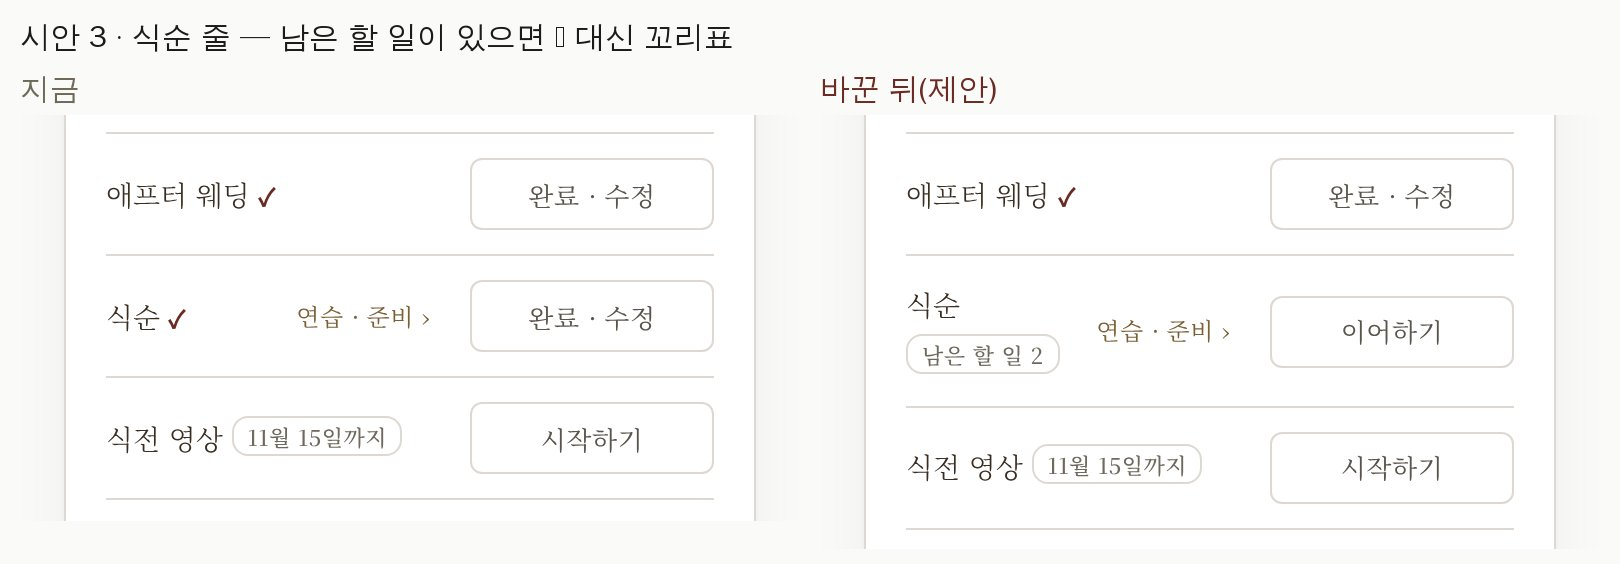
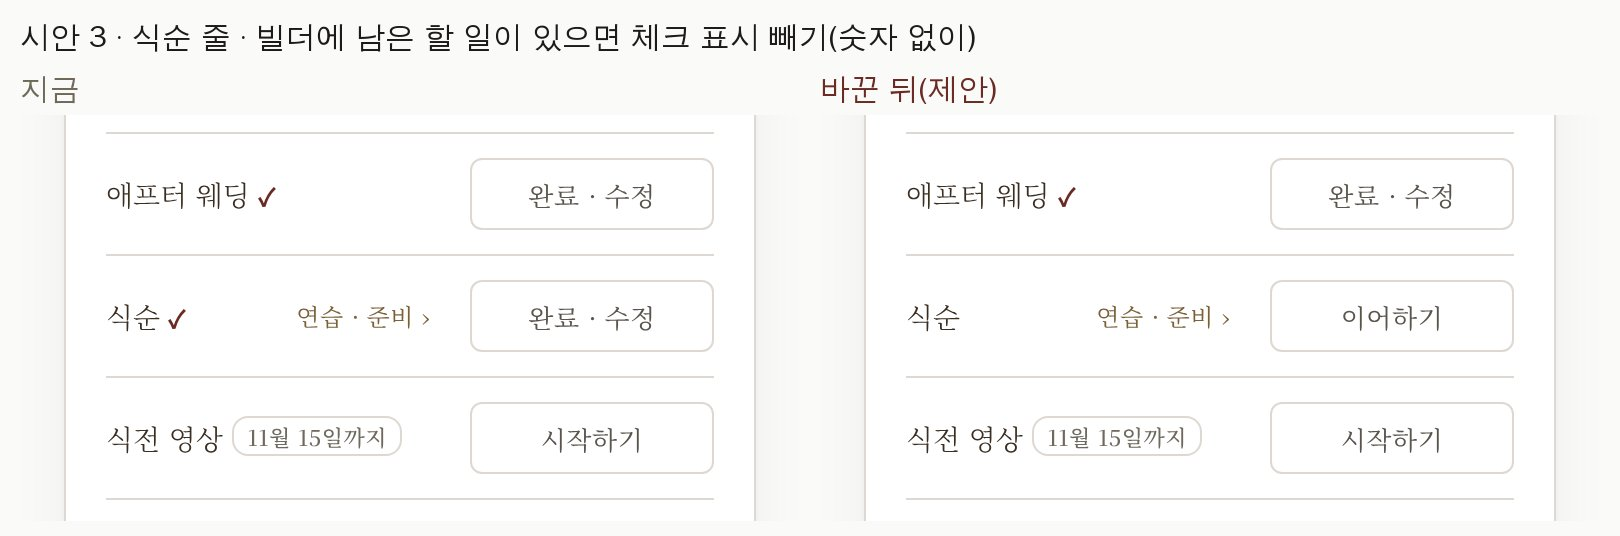
MYPAGE_ALL_1114 · 보고 1 에 결정 기록 칸 [DECISION_FIRST_1114] · 시안 3 숫자 없이 — 검토용 · PR 없음
Claude-Session: https://claude.ai/code/session_01NQtafkznzUV1K24vWyUbNQ

diff --git a/docs/handoff/mypage-all-1114/report-1.md b/docs/handoff/mypage-all-1114/report-1.md
@@ -1,77 +1,82 @@
-# [MYPAGE 보고 1 · 전체 걷기] 고칠 것 표 (2026-11-14 · main 2236d10)
+# [MYPAGE 보고 1 · 전체 걷기] 고칠 것 표 (2026-11-14 · main 2236d10 · [DECISION_FIRST_1114] 반영판)
 
+## 이 표를 만든 방법
 - **걷기**: 진짜 서버 코드(.gs)를 로컬에서 돌려 받은 상태로 실제 mypage.html을 그렸어요. 실제 고객 데이터 · 결제 · 발송은 없어요.
   - 폰 390: 단계 32개 + 단추를 눌러 연 화면 44개
   - PC 1280: 같은 단계
-  - 캡처 목록: [index.md](https://raw.githubusercontent.com/gtrddrt7706-cpu/momentedit-site/claude/mypage-all-1114-shots/docs/handoff/mypage-all-1114/index.md)
-- **점검**:
-  - 묶음 넷(A 로그인~시착 · B 계약~잔금 · C 예식 준비 · D 예식 뒤 · 스냅)을 하위 점검자가 맡고, «기한 · 상태 말» 대조(마이 · 식순 · 알림 · 관리)를 하나 더 맡겼어요.
-  - 그다음 제가 «꼭» 항목을 코드와 화면으로 다시 확인했어요(아래 «확인» 칸).
-- **두 폭 공통**: 가로 넘침 0 · 서버 오류 0 · 콘솔 오류 0 · undefined/NaN 노출 0 · 전각 줄표 0.
-- **처리**:
-  - PR #1651 = 작은 수정(병합 금지)
-  - 시안 1~4 = [전 · 후 그림](https://raw.githubusercontent.com/gtrddrt7706-cpu/momentedit-site/claude/mypage-all-1114-shots/docs/handoff/mypage-all-1114/sian/S1-pair.jpg)(S1~S4)
+  - 캡처: [index.md](https://raw.githubusercontent.com/gtrddrt7706-cpu/momentedit-site/claude/mypage-all-1114-shots/docs/handoff/mypage-all-1114/index.md)
+- **점검자**: 하위 점검자 다섯 + 결정 기록 조사 하나. «꼭»은 제가 코드 · 화면으로 다시 확인했어요.
+- **결정 기록**: 소스 주석 표식, 커밋 글(전체 역사 `git log -S`), 결정 문서에서 찾았어요.
+  - 기록이 있는 항목은 «결정 뒤 달라진 점»으로만 적었어요.
+  - 결정 기록 칸의 줄임말: 구멍 = 예전 결정이 놓친 갈래 · 나중 결정 = 더 늦은 결정이 이김 · 부딪힘 = 결정을 바꾸는 제안.
+- **처리 칸의 줄임말**:
+  - PR = #1651(병합 안 함)
+  - 시안 = [전 · 후 그림 S1~S4](https://raw.githubusercontent.com/gtrddrt7706-cpu/momentedit-site/claude/mypage-all-1114-shots/docs/handoff/mypage-all-1114/sian/S1-pair.jpg)
   - 보고만 = 계약 · 결제 · 환불 문구 또는 GAS
   - 표 = 결정이 필요한 다듬기
 
-## 꼭 (고객이 헷갈리거나 막히거나 틀린 정보를 받음)
+## 꼭
 
-| # | 어디 | 무엇 | 고친 뒤 | 처리 | 확인 |
+| # | 어디 | 무엇 | 결정 기록 | 달라진 점 | 처리 |
 |---|---|---|---|---|---|
-| 1 | 예식 준비 «하객 안내» | 11/06 링크 자동 발급([B2_MA_02]) 뒤 아무것도 안 한 첫날부터 ✓ 가 붙음(헌장 9) | ✓ 없음 · 단추가 상태를 말함 | **PR #1651 F4** | 코드 · 화면 |
-| 2 | «식전 영상» 줄 · 기한 지남 | «기한 지남 · 시작하기»를 누르면 «확정 기한이 지났어요»만 뜸(막힌 단추). 그 화면에 «저장»도 있음 | 식중 줄과 같은 «보기 · 영상 없이 진행» · 저장 숨김 | **PR #1651 F1 · F2** | 코드 · 화면(D-5) |
-| 3 | 웨딩스냅 · 서명 뒤 | «촬영 전에 계약서를 보내드려요»가 그대로 나옴 | 서명 뒤엔 그 줄 빼기 | **PR #1651 F6** | 코드 |
-| 4 | 처음 온 고객(D-70) 메인 | 필수 기한이 한 곳에도 없음. 식순 순서 1/9 · 좌석·음료 1/14 · 식전 영상 1/16은 각 화면 안에만 있음 | NOW 부제 끝에 «가장 가까운 기한 · 식순 순서 1월 9일(토)까지» 한 줄 | **시안 1** | 화면 |
-| 5 | 좌석 화면 기한 줄 | «예식 9일 전까지 확정해 주세요 · D-8» · D-8 은 예식까지 남은 날. 기한(11/13)이 지났고 이미 완료여도 같은 말 | 안 끝냄 «1월 14일(목)까지» / 지남 «확정 기한(11월 13일(금))이 지났어요» / 완료면 숨김 | **시안 2**(문구는 설계 방) | 코드(`_seatLeadNote` 갈래 없음) |
-| 6 | 식순 줄 | 빌더에 남은 할 일이 있어도 저장하면 ✓ · NOW 도 «필수 끝»으로 셈. `mkUndone`은 «마이페이지가 읽는다»고 적혀 있지만 읽는 곳 0 | ✓ 대신 «남은 할 일 N» 꼬리표 · 단추 «이어하기» | **시안 3** | 코드 |
-| 7 | 예식 뒤 «내 완성물» | 서버가 production 을 입금완료 · 제작중에만 줘서(`PRODUCTION_STAGES`) 예식 뒤 목록이 한 번도 안 뜸. 하객 사진 올리기는 30일 열려 있는데 두 분은 링크를 잃음 | 예식 뒤에도 읽기 전용 «내 완성물» | **시안 4**(GAS 재배포 필요) | 코드 |
-| 8 | 예식 영상 대기 | 영상 «준비 중»인데 NOW «모든 순간이 마무리됐어요» · «여정 완료» · 후기가 받지 않은 영상까지 평가하게 함 | NOW 부제 «예식 영상은 준비되는 대로 이곳에 올려드릴게요» | **시안 4** | 점검자 |
-| 9 | 시착 단계 | 시착 단계에 들어서면 상담 카드(일시 · 장소 · 시간 변경)가 통째로 숨음. 상담 전에 동의서가 열리면 상담일을 화면 어디서도 못 봄 | 상담일이 지나기 전까지 상담 카드 유지 | 표(숨김 조건 몇 줄) | 코드 · 화면(14~16에 날짜 0) |
-| 10 | 상담 시간 고른 뒤(11) | «예약금·일정 확인 후 … 확정을 알려드려요» 바로 아래 «예약금 100,000원 · 입금 확인됐어요» | 입금 확인이면 «일정 확인 후 …» | 표(조건 한 낱말) | 화면 |
-| 11 | 개인코드 찾기 · 비밀번호 재설정 | 이메일을 모르거나 메일이 안 오면 다음 길 없음 · 만료 링크는 처음부터 다시 | «이메일이 기억나지 않으면 카카오톡으로» 한 줄 · «재설정 링크 다시 받기» | 표 | 화면 |
-| 12 | 애프터 웨딩 입구 · 좌석 공개 | «예식만으로 조용히 마무리»가 누를 때와 같은 회색 칠 · 좌석 «전체 공개»가 처음부터 체크(BOSS_WAY 1) | 두 카드 흰 바탕 · 안 함은 글자색만 낮춤 / 공개는 안 눌린 채 «안 고르시면 전체 공개» 한 줄 | 표 | 화면 |
-| 13 | 결과물 · 보정 기한 | «보정본은 예식 후 4주 안에 · 고르시는 게 늦어지면 그만큼 늦어져요»가 다 고른 뒤에만 보임(고를 때는 없음) | 원본 도착 때 두 줄 · 보정 중엔 첫 줄만 | 표(사장님 결정 ①의 표시 조건) | 코드 |
-| 14 | 취소된 고객(낸 돈 33만 원 · 환불 0원) | 돈 이야기가 한 줄도 없음(환불 0원이면 환불 카드가 안 뜸) | «받으신 금액은 위약금으로 처리돼 돌려드릴 금액이 없어요 · 근거 조항» | **보고만**(환불 문구) | 화면 |
+| 1 | 하객 안내 ✓ | 아무것도 안 한 첫날부터 ✓ | 있음 · 7/17 «같은 행 폼» 때 ✓ = 링크 있음(그땐 식사·좌석 뒤에만 링크가 생김) | 구멍 · 11/06 [B2_MA_02] 자동 발급으로 ✓의 뜻이 사라짐 | PR F4 |
+| 2 | 식전 영상 · 기한 지남 | «시작하기» → 막힌 화면 · «저장» | 있음 · [PV_CAT_1031] 10/31 «여덟 모양»(대본 설계) | 구멍 · 11/06 [MID_VIDEO_1106]이 식중 줄만 «보기 · 영상 없이 진행»으로 바꿈 | PR F1 · F2(대본 확인) |
+| 3 | 스냅 · 서명 뒤 | «계약서를 보내드려요» 줄 | 있음 · [SNAP_SIGNED_LOCK] 9/26 «서명 뒤 단추 대신 조항 한 줄» | 구멍 · 접힌 «계약서» 줄은 서명 여부를 안 봄 | PR F6 |
+| 4 | 처음 온 고객 메인 | 필수 기한이 메인에 하나도 없음 | 있음 · [TRK_NO_SUB] 7/25 행 아래 기한 걷음 · [TRK_BTN_SAME] · [NOW_CARD_ONCE] 10/09 | 식순 순서 · 식전 영상 기한은 그 뒤에 생겨 어느 결정에도 없음. NOW 한 줄이 NOW_CARD_ONCE 뜻(카드와 같은 말이면 빼기)과 부딪히는지는 판정 필요(카드에는 기한이 없음) | 시안 1 |
+| 5 | 좌석 화면 기한 줄 | «9일 전까지 확정해 주세요 · D-8»(지남 · 완료여도) | 있음 · [MPD_B7] 7/25 D-n = 예식까지 | 구멍 · 옛 줄은 «안 끝냄»에서만 그렸는데 7/25 옮기면서 그 조건이 빠짐 · 지남 갈래는 처음부터 없음 | 시안 2 |
+| 6 | 식순 ✓ | 빌더에 할 일이 남아도 ✓ | 있음 · [PREP_FOLD_OFF] 10/05 사장님 «준비할 것 N가지 · 일단 안 보이게» · mkUndone «stage 2» 미구현 | 부딪힘 주의 · «남은 할 일 N» 꼬리표는 사장님이 숨긴 «N가지»와 닮음 → **숫자 없이 ✓만 빼기**로 고쳐 제안 | 시안 3(수정) |
+| 7 | 예식 뒤 «내 완성물» | 한 번도 안 뜸 · 하객 안내 링크 사라짐 | 있음 · [MPD4_H4] 7/25 «결과물전달 뒤 내 완성물 읽기 전용» | 구멍 · 서버 `PRODUCTION_STAGES`(6/03) 그대로라 이 결정이 한 번도 화면에 산 적 없음 | 시안 4 · GAS |
+| 8 | 예식 영상 대기 | «모든 순간이 마무리됐어요» · 후기가 받지 않은 영상까지 평가 | 있음(부분) · [VIDEO_PENDING_ROW] 9/26 목록만 · «알려드릴게요» 금지(도착 알림 없음) | NOW · «여정 완료» · 후기 문항은 그 결정이 안 봄 · 시안 문구도 «알려드릴게요» 없이 «이곳에 올려드릴게요» | 시안 4 |
+| 9 | 시착 단계 상담 카드 | 상담 일시 · 장소가 사라짐 | 있음 · 6/06 «상담 박스는 방문 전까지만 · 시착 서명 또는 상담완료 뒤 숨김» | 커밋 글은 «시착 서명», 코드는 «시착 단계 진입» · 단계가 상담일 전에 넘어갈 수 있음 | 표 |
+| 10 | 상담 시간 고른 뒤 | «예약금 확인 후» vs «입금 확인됐어요» | 있음(부분) · [CONSULT_DEPOSIT] 9/26 결정 ⑲ 예약금 한 줄 | 한 줄을 더하면서 위 문장은 안 고침 | 표 |
+| 11 | 개인코드 찾기 · 재설정 | 메일이 안 오면 다음 길 없음 | 있음(부분) · [AUTH_SEND_CAP] 10/09 «답은 늘 같게 · 계정 유무 숨김 · 횟수 상한» | 이메일을 모를 때 · 만료 링크 다음 길은 결정 없음(그 규칙 안에서 «카카오톡» 한 줄 · «다시 받기») | 표 |
+| 12 | 애프터 웨딩 입구 · 좌석 공개 | 고르기 전인데 고른 모양 | 있음 · [DN_GATE] 7/20 «안 함 카드 톤 낮춤» · 좌석 «기본 전체 공개» 7/18 | 나중 결정 · [BOSS_WAY_1006] 1(10/06 «기본값을 눌린 모양으로 두지 않는다»)이 이김 | 표 |
+| 13 | 보정 기한 줄 | 고를 때는 안 보이고 다 고른 뒤에만 | 있음 · [RETOUCH_DUE_CONTRACT] 9/26 결정 ① 문구 · 조건은 [MPD_B12] 7/25 | 구멍 · ①이 «늦어지면» 줄을 더했지만 표시 조건은 B12 그대로 | 표 |
+| 14 | 취소 고객(환불 0원) | 돈 이야기가 없음 | 있음(부분) · 6/11 «환불 0원이면 환불 카드 없음» | 화면 돈 문장은 결정 없음 | 보고만 |
 
-## 좋음 (다듬으면 확실히 나아짐)
+## 좋음
 
-| # | 어디 | 무엇 | 고친 뒤 | 처리 |
+| # | 어디 | 무엇 | 결정 기록 | 달라진 점 · 처리 |
 |---|---|---|---|---|
-| 15 | 기한 표기 | 같은 기한을 일곱 꼴로 씀(«1월 9일(토)까지» · «예식 9일 전까지» · «23:59 · 예식 7일 전» · «D-n» · «11월 15일까지» 요일 없음 …) | 모두 «1월 14일(목)까지», 필요하면 «· 예식 9일 전» | 시안 1과 함께 |
-| 16 | 스냅 기획 · 마감 뒤 | NOW «11월 18일(수)까지 고르실 수 있어요» · 카드 «마감이 지났지만…» · 화면 안 «14일 전이 지났어요» | 세 곳 모두 같은 날짜 | 표 |
-| 17 | NOW ↔ 카드 | 같은 말 두 번(10 일정 선택 · 12 제안 · 14 · 16 시착) | NOW 부제 비우고 할 일은 카드 한 곳([NOW_CARD_ONCE] 그대로) | 표(작은 수정 가능) |
-| 18 | 잔금 확인 뒤 | 카드가 조용히 사라지고 «확인됐어요»가 어디에도 없음 · 확인 알림도 꺼짐 | NOW 부제에 며칠 «잔금 1,650,000원 확인됐어요» | 보고만(결제) |
-| 19 | 진사 단추 | 상담 «일정 선택»(이동)은 진사, «이 시간으로 수락»(확정)은 먹빛 · [SEAL_CTA_ONLY]와 거꾸로 | 수락 = 진사 · 일정 선택 = 먹빛 | 표 |
-| 20 | 로그인 · 찾기 · 재설정 오류 | 칠한 상자(진사 5% 바탕 + 테)로 남음 · 상자 때문에 링크가 64px 밀림([ERR_ONE]) | 진사 글 한 줄 | 표(CSS 두 줄) |
-| 21 | 빈 칸으로 «입금했어요» · «고른 컷 제출» · 후기 | 창(mpAlert)이 떠서 한 번 더 눌러 닫아야 함 · 후기는 빠진 필수 하나만 짚음 | 칸 아래 진사 한 줄 + 그 칸으로 초점 | 표 |
-| 22 | 작은 글(읽어야 하는 문장) | 11px · 11.5px 문장(장소 부연 · 계약 요청 칸 이름 · 140분 시간표 숫자(옛 숫자꼴) · 확인서 «고치시면 확정이 풀려요» · 금액 내역) | 12px(문장) · 시간표 `lining-nums` | 표(CSS) |
-| 23 | 누름 칸 | 좌석 ＋ － ✕ 26px · 번호 원 · 체크박스 15px · «상담 도우미에 물어보기» 28px | 보이는 크기 그대로 · 누름 칸 44px | 표(CSS) · «입금액 복사»는 PR F3 |
-| 24 | 관리 화면 이름 | «다이닝» ↔ 애프터 웨딩 · «최종확정 / 좌석배치» ↔ 좌석 · 음료 · 청첩장 상태가 «시작전 · 진행중» 날것 | 고객 화면과 같은 이름 | 표(admin) |
-| 25 | 예식 확인서 확정 | 메일 · 처리 이력은 남지만 관리 고객 카드에 «확정함» 줄이 없음 | 관리 카드에 한 줄 | 표(admin) |
-| 26 | 후기 카드(4,285px) | 선택 10문항 + «기타 의견» 12개 + 카드 안 카드 | «기타 의견»은 고른 문항에만 · 카드 한 겹 | 표(C6 «설문 접기» 보류와 닿음) |
+| 15 | 기한 표기 | 일곱 꼴 | 자리마다 있음 · [SNAP_EDIT_UNTIL] 9/27 «날짜로 말한다» · [PV_STATE_1106 M09] «M월 D일(요일) 23:59 · 예식 7일 전» · [I3_EDIT_WINDOW] | 통일 결정 없음 · M09 꼴 변경은 대본 판정 · 시안 1과 함께 |
+| 16 | 스냅 기획 마감 뒤 | 세 곳 다른 말 | 있음 · [SNAP_EDIT_UNTIL] · [SNAP_WORD_SCENE] 9/27 | 구멍 · NOW만 날짜로 바뀜 · 표 |
+| 17 | NOW ↔ 카드 같은 말 | 10 · 12 · 14 · 16 | 있음 · [NOW_CARD_ONCE] 10/09(다섯 곳 열거) | 구멍 · 열거에서 신청접수 · 변경제안 · 시착 일부 빠짐 · 표(작은 수정 가능) |
+| 18 | 잔금 확인 뒤 | 확인 사실이 어디에도 없음 | 있음(충돌) · 6/12 «완료 결제 카드 제거» · [CPN_NOTIFY] 8/18 알림 off · [NOW_NO_MONEY] 9/21 사장님 | 부딪힘 · 금액을 쓰면 NOW_NO_MONEY 위반 → «잔금 확인됐어요»(금액 없이) 며칠만 · 보고만 |
+| 19 | 진사 단추 | 일정 선택(이동)=진사 · 수락(확정)=먹빛 | 있음 · [SEAL_CTA_ONLY] 9/27 사장님 | 나중 결정 · «일정 선택» 진사는 7/07 스타일 커밋(지시 표기 없음) · 표 |
+| 20 | 로그인 · 찾기 오류 상자 | 칠한 상자 | 있음 · [ERR_ONE] 9/27 · [NOTE_DOT] | 나중 결정 · 로그인은 9/27 한 벌에서 빠짐 · 표(CSS 두 줄) |
+| 21 | 빈 칸 → 창(mpAlert) | 입금했어요 · 고른 컷 제출 | 있음 · [WZ_ERR_INV] 9/27 · [CI_ERR_AT] 10/09 | 나중 결정 · 이 두 폼이 한 벌에 안 들어감 · 후기의 «하나씩 짚기»는 [SV_MISS_AT] 설계라 뺌 · 표 |
+| 22 | 작은 글 | 11px · 11.5px 문장 · 시간표 숫자꼴 | 있음(반대) · «L6-KO-11PX 기각» 9/26(11px는 [TYPO_SCALE7] 의도) | 부딪힘 · **11→12는 뺌.** 남는 것은 11.5px 반px(금지)와 시간표 옛 숫자꼴뿐 · 표 |
+| 23 | 누름 칸 | 좌석 ＋ － ✕ 26px · 체크박스 15px | 있음 · [X_ONE] 9/27 «✕ 44px · 26px 걷음» | 나중 결정 · 그때 좌석 · 체크박스는 안 바뀜 · 표 · «입금액 복사»는 PR F3 |
+| 24 | 관리 화면 이름 | 다이닝 · 최종확정 · 좌석배치 | 없음(관련: [SEAT_DRINK_LABEL] 8/09 고객 화면만 · [STAGE_NAME_PREP] 단계 이름만) | 표(admin) |
+| 25 | 예식 확인서 확정 → 관리 카드 | 줄 없음 | 있음(부분) · [CF_LOG] 8/17 «처리이력 · 메일 둘로 충분» | 관리 카드 표시는 정한 적 없음 · 선례(스냅 기획 «확인됨») · 표(admin) |
+| 26 | 후기 카드 4,285px | 길다 | 있음 · C6 «설문 접기» 7/25 보류 · [SV_NOTE_UI] 9/25 사장님 «문항마다 기타» | 부딪힘 · «기타는 고른 문항에만»은 뺌 · **카드 한 겹(여백 두 겹 걷기)만** · 표 |
 
-## 나중 (구조 · 취향)
+## 나중
 
-| # | 어디 | 무엇 | 고친 뒤 |
-|---|---|---|---|
-| 27 | 계약 요청 폼 | 16칸 · 2,976px · 요청 단추가 맨 끝 · [WZ_BAR] 겉틀 아님 | 일정 / 두 분 정보 / 동의, 세 걸음 |
-| 28 | 진행 머리 «다음 · …» ↔ NEXT 첫 줄 | 같은 단계를 다른 이름으로 | 이름 하나 |
-| 29 | 속도 | 아래 표 | 아래 표 |
+| # | 어디 | 무엇 | 결정 기록 | 처리 |
+|---|---|---|---|---|
+| 27 | 계약 요청 폼 | 16칸 · 2,976px · [WZ_BAR] 겉틀 아님 | 없음([WZ_BAR] 9/26 대상 목록에 없음) | 세 걸음 시안은 나중 |
+| 28 | 진행 머리 «다음 · …» ↔ NEXT | 같은 단계 다른 이름 | 있음(부분) · [STAGE_NAME_PREP] 9/26 결정 ⑤ · [SIGN_NEXT_BUNDLE] | 두 결정이 안 다룬 단계만 · 표 |
+| 29 | 속도 | 아래 표 | 없음(«정적 HTML · 빌드 없음»은 사실 서술 · 금지 결정 아님) | 주석에는 «★…금지» 같은 결정 표식이 있고 merge-guard 가 소스에서 읽으니, 덜어 내려면 배포 때만 · 나중 |
 
 ### 속도 (7)
-
 | 잰 것 | 값 |
 |---|---|
 | mypage.html 원본 · 라이브 brotli | 1,778,306바이트 · 591,935바이트(www 로 307 한 번 거침) |
-| 그중 주석(`/* */` · `<!-- -->`) | 583,372바이트(원본의 33%) · 고객에게 그대로 감 |
+| 그중 주석 | 583,372바이트(원본의 33%) |
 | 폰 흉내(CPU 4배 · 로컬) 첫 그림 · 마이페이지 뜸 · 막힌 시간 | 0.56초 · 1.57초 · 1.2초 |
 | PC 첫 그림 · 마이페이지 뜸 | 0.29초 · 0.51초 |
-| 해석 | 화면 쪽은 견딜 만해요. 실제로 기다리게 하는 것은 GAS getMyState(첫 요청 · 콜드 스타트 · [STATE_PATIENT])예요. 주석을 덜어 내는 빌드 단계는 «나중»으로 둬요 |
+| 해석 | 화면 쪽은 견딜 만해요. 실제로 기다리게 하는 것은 GAS getMyState 예요([STATE_PATIENT]) |
+
+## 결정과 부딪혀 고쳐 적은 제안 (먼저 보실 것)
+- **#22**: 11px → 12px 은 9/26 기각 결정과 부딪혀 뺐어요.
+- **#18**: NOW 에 금액을 쓰면 [NOW_NO_MONEY] 위반이라, 금액 없는 한 줄로 바꿨어요.
+- **#26**: «기타는 고른 문항에만»은 사장님 지시(문항마다)를 바꾸는 일이라 뺐어요.
+- **#6 시안 3**: «남은 할 일 N»은 사장님이 숨긴 «N가지»와 닮아서, 숫자 없이 ✓만 빼는 쪽으로 고쳤어요.
 
 ## 쓰지 않은 것 · 장치 한계
-- 오른쪽 아이콘 레일 · 말풍선 · 드레스 스티커는 확정 설계라 언급하지 않았어요.
-- «행 강조» · «행 아래 기한 줄»은 사장님이 걷은 것이라 되살리지 않았어요(시안 1은 NOW 한 줄로 피했어요).
-- 점검 장치가 신고 없이 상태를 넣어서 생긴 장면(25 «중도금 다시 입금» 등)은 결함으로 세지 않았어요.
-- 점검자 E 의 «예식 확인서 알림 없음»은 틀린 말이었어요(메일 · 처리 이력은 있음) → 25번처럼 «관리 카드 줄 없음»으로 고쳐 적었어요.
-- ChatGPT 1라운드는 보냈지만(«마이페이지 화면 검토» 대화), 브라우저 탭이 응답하지 않아 결과를 아직 못 읽었어요. 읽는 대로 반영 표를 덧붙일게요.
-- 릴스 분석 방의 Hallmark 결과는 아직 받지 못했어요. 받으면 하나씩 keep / drop 할게요.
+- 오른쪽 아이콘 레일 · 말풍선 · 드레스 스티커는 확정 설계라 뺐어요.
+- 점검 장치가 신고 없이 상태를 넣어 생긴 장면은 결함으로 세지 않았어요.
+- 점검자의 «확인서 알림 없음»은 틀린 말이었어요(메일 · 처리 이력 있음) → 25번으로 고쳐 적었어요.
+- ChatGPT 1라운드는 보냈지만 브라우저 탭이 응답하지 않아 결과를 못 읽었어요.
+- Hallmark 결과는 아직 오지 않았어요.
